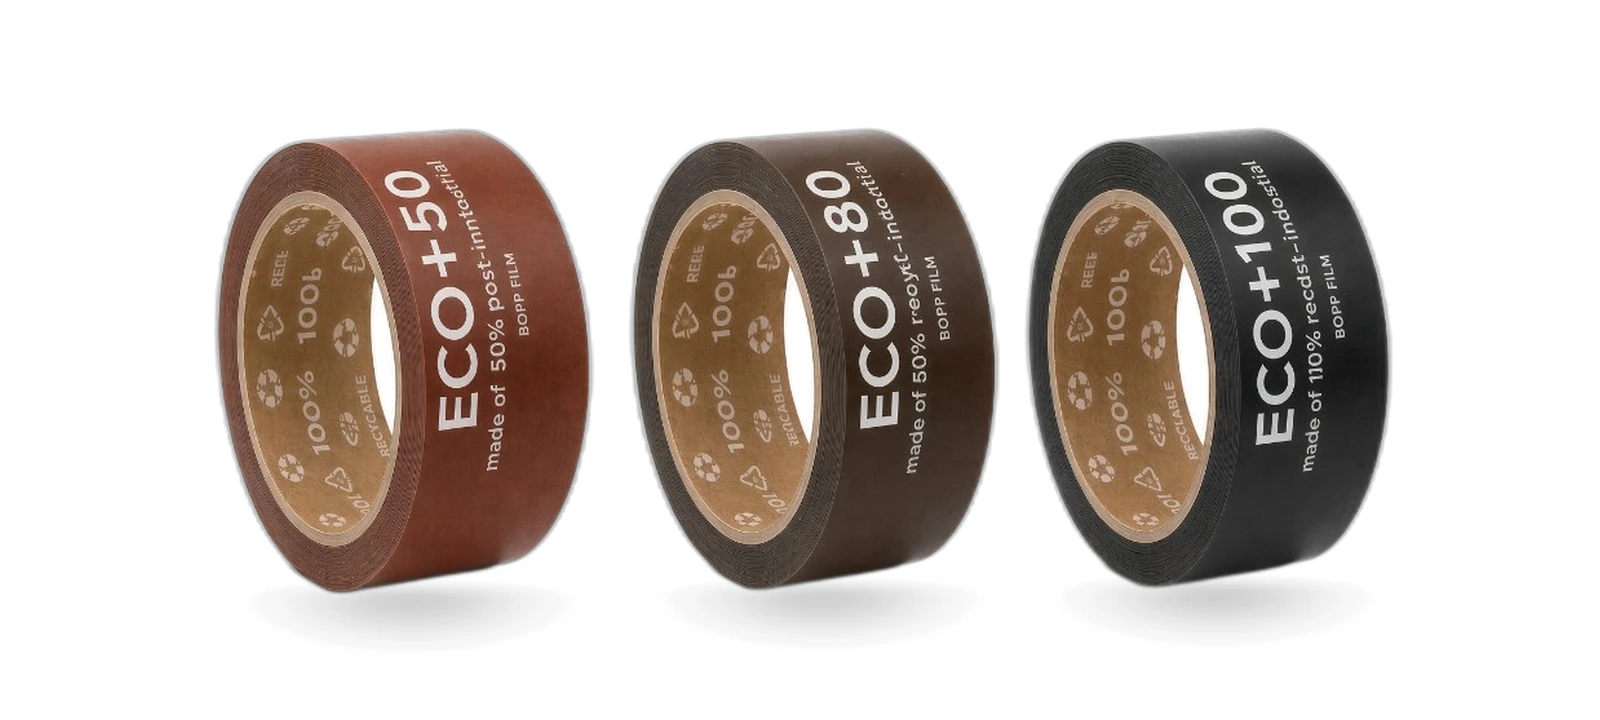
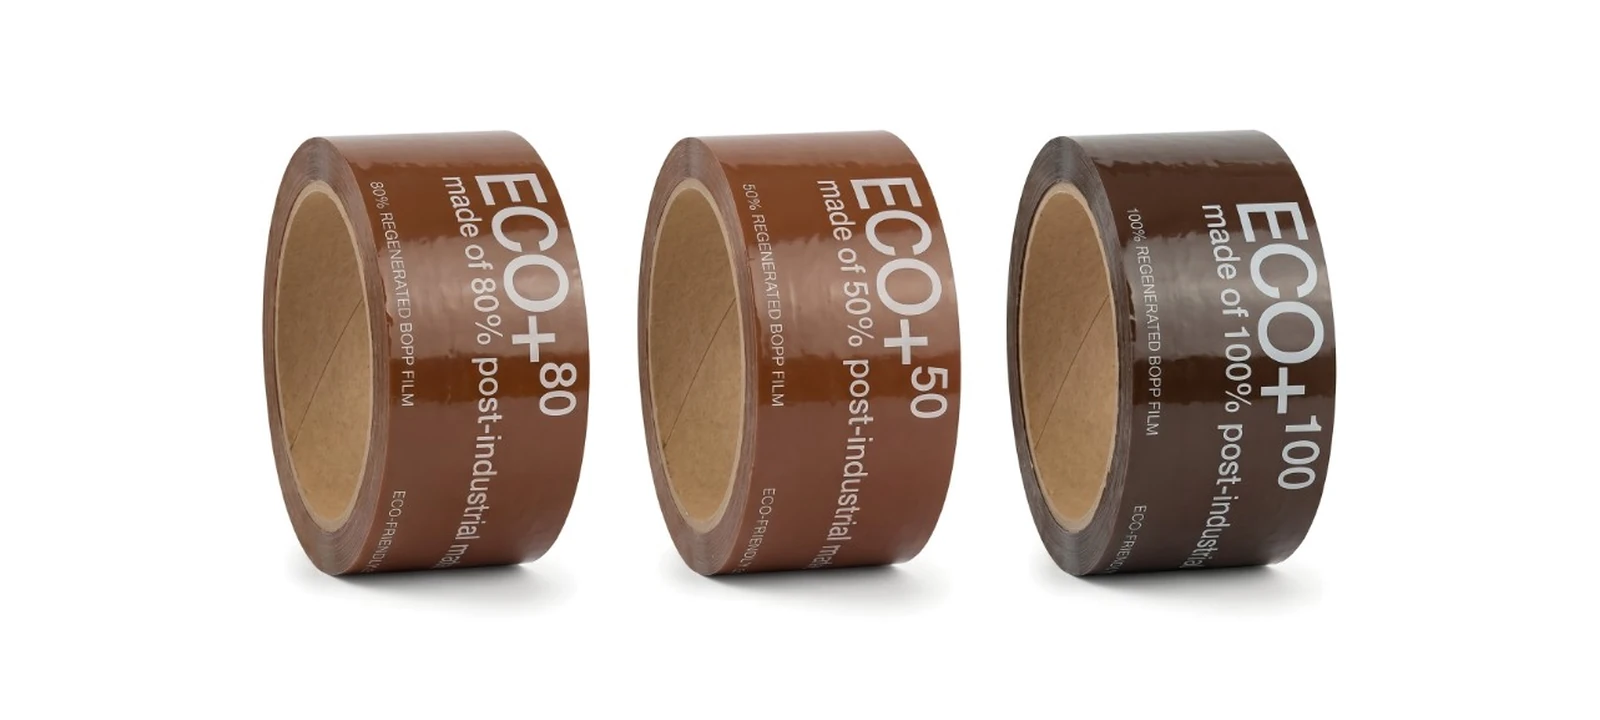
Aktualizovat fotku ECO+ na kartě Udržitelnost.

diff --git a/index.html b/index.html
@@ -430,7 +430,7 @@
 
         <article class="group glass glass--card relative flex flex-col overflow-hidden rounded-3xl transition-all duration-300">
             <div class="relative h-52 overflow-hidden bg-emerald-50 sm:h-56">
-                <img src="/images/benefit-eco-plus.jpg?v=26" alt="Udržitelné pásky ECO+ 50, ECO+ 80 a ECO+ 100 s potiskem" class="h-full w-full object-cover object-[center_40%]" loading="lazy" width="800" height="450">
+                <img src="/images/benefit-eco-plus.jpg?v=27" alt="Udržitelné pásky ECO+ 50, ECO+ 80 a ECO+ 100 s potiskem" class="h-full w-full object-cover object-[center_40%]" loading="lazy" width="800" height="450">
                 <div class="pointer-events-none absolute inset-0 bg-gradient-to-t from-white/20 via-transparent to-transparent"></div>
             </div>
             <div class="flex flex-1 flex-col px-8 pb-10 pt-6">
